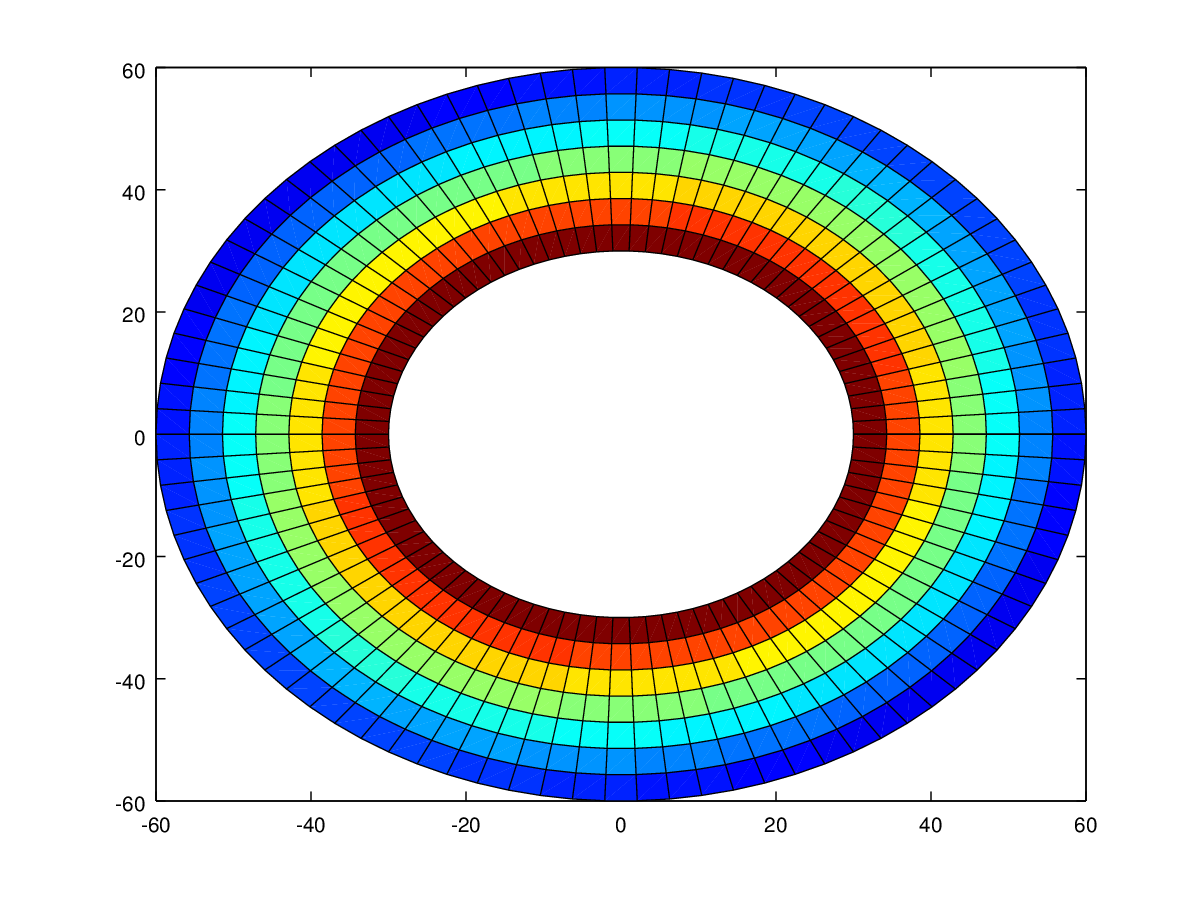
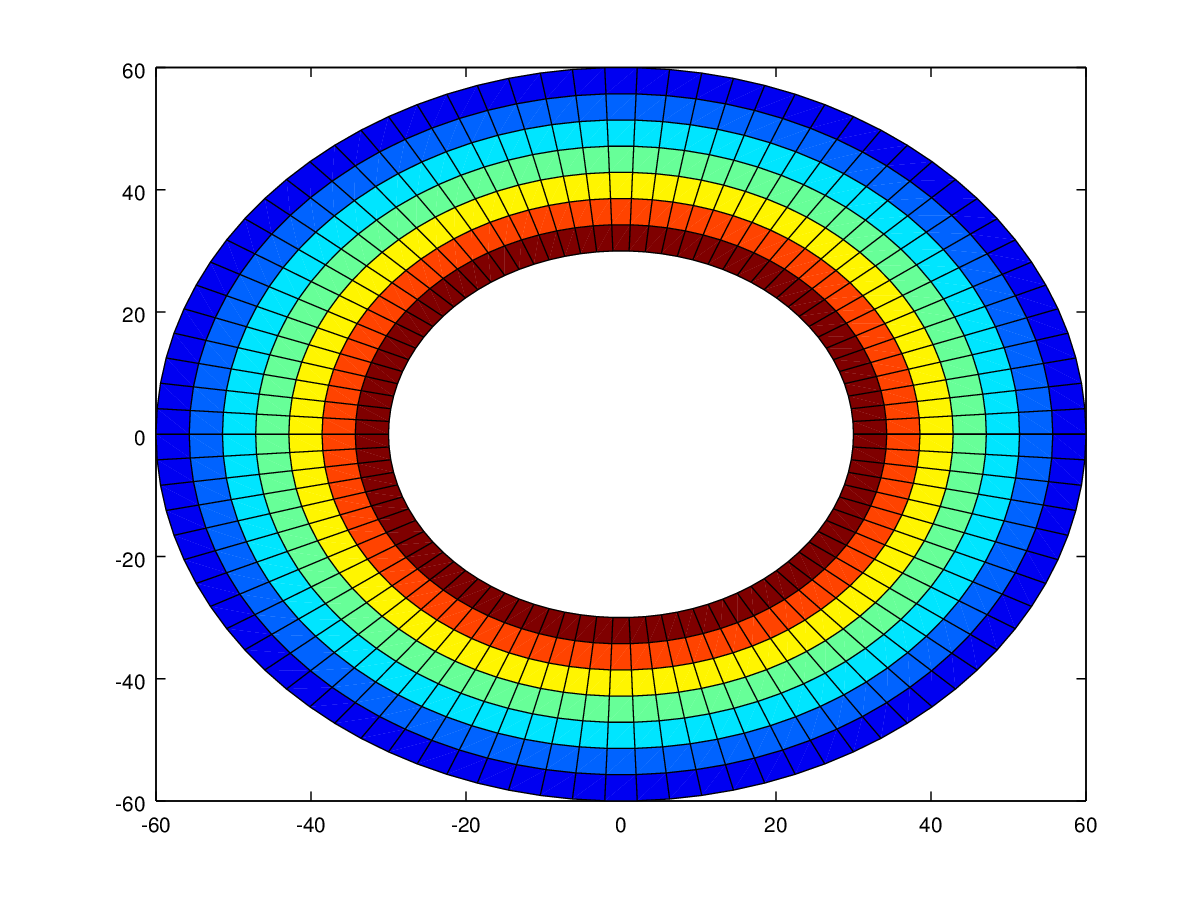
Resultados de exper 1 y 2

Changed region(s): [[0.4317, 0.0622, 0.925, 0.5289], [0.1233, 0.4356, 0.6167, 0.9022]]

diff --git a/informe/3-resultados.tex b/informe/3-resultados.tex
@@ -5,20 +5,84 @@
     Para ambos casos se consideraron instancias de prueba con los siguientes parámetros: $r_i = 30$, $r_e = 60$, $T_i = 1500$, $iso = 500$. Se utilizó una temperatura externa constante en todos los puntos $(r_e, \theta)$ de la discretización, ($T_e(\theta) = 50$).
     En primer lugar, se calculó la solución del sistema y la posición estimada de la isoterma para una discretización considerablemente granular, con $m + 1 = 70$ y $n = 90$, para utilizar como caso de contraste. Reproducimos los gráficos que representan las temperaturas calculadas para todos los puntos de la discretización y la ubicación estimada de la isoterma.
 
+    {\centering \begin{tabular}{cc}
+      \includegraphics[height=5cm]{graficos/1/1-real.png} & \includegraphics[height=5cm]{graficos/1/1-real-iso.png} \\
+      {\small Temperaturas obtenidas} &
+      {\small Posición estimada de la isoterma 500{\degree}C} \\
+    \end{tabular}}
+
     \paragraph{Caso A} Se mantuvo constante la cantidad de radios de la discretización $m + 1 = 70$, y se tomaron instancias con diferentes cantidades de ángulos, para $n = 3, 5, 8, 10, 30, 50, 70$. Los gráficos que incluimos representan los resultados obtenidos para $n = 5, 10, 50$, reflejando las temperaturas calculadas y la ubicación estimada de la isoterma (en azul), comparada con la obtenida para el caso de contraste (en verde).
 
-      \begin{figure}[h]
-        \centering
-        \includegraphics[width=4cm]{altoHorno.jpg}
-        \caption*{Alto horno.}
-      \end{figure}
+    {\centering \begin{tabular}{ccc}
+      \includegraphics[width=4.5cm]{graficos/1/1a-5.png} &
+      \includegraphics[width=4.5cm]{graficos/1/1a-10.png} &
+      \includegraphics[width=4.5cm]{graficos/1/1a-50.png} \\
+      \includegraphics[width=4.5cm]{graficos/1/1a-5-iso.png} &
+      \includegraphics[width=4.5cm]{graficos/1/1a-10-iso.png} &
+      \includegraphics[width=4.5cm]{graficos/1/1a-50-iso.png} \\
+      {\small $n = 5$} &
+      {\small $n = 10$} &
+      {\small $n = 50$} \\
+    \end{tabular}}
 
     \paragraph{Caso B} Se mantuvo constante la cantidad de ángulos de la discretización $n = 90$, y se tomaron instancias con diferentes cantidades de ángulos, para $m + 1 = 3, 5, 8, 10, 30, 50$. Los gráficos que incluimos representan los resultados obtenidos para $m + 1 = 3, 8, 30$, reflejando las temperaturas calculadas y la ubicación estimada de la isoterma (en azul), comparada con la obtenida para el caso de contraste (en verde).
 
+    {\centering \begin{tabular}{ccc}
+      \includegraphics[width=4.5cm]{graficos/1/1b-3.png} &
+      \includegraphics[width=4.5cm]{graficos/1/1b-8.png} &
+      \includegraphics[width=4.5cm]{graficos/1/1b-30.png} \\
+      \includegraphics[width=4.5cm]{graficos/1/1b-3-iso.png} &
+      \includegraphics[width=4.5cm]{graficos/1/1b-8-iso.png} &
+      \includegraphics[width=4.5cm]{graficos/1/1b-30-iso.png} \\
+      {\small $n = 3$} &
+      {\small $n = 8$} &
+      {\small $n = 30$} \\
+    \end{tabular}}
 
   \subsubsection*{Experimento 2: Posición de la isoterma según granularidad}
 
+    Para ambos casos se consideraron instancias de prueba con los siguientes parámetros: $r_i = 30$, $r_e = 60$, $T_i = 1500$, $iso = 500$. Se generó una instancia de prueba con una temperatura externa variable entre 50 y 200{\degree}C
+    % , con $T_e(\theta) = 125 + 75 \sin(2\theta)$ 
+    en todos los puntos $(r_e, \theta)$ de la discretización.
+    En primer lugar, se calculó la solución del sistema y la posición estimada de la isoterma para una discretización considerablemente granular, con $m + 1 = 70$ y $n = 90$, para utilizar como caso de contraste. Reproducimos los gráficos que representan las temperaturas calculadas para todos los puntos de la discretización y la ubicación estimada de la isoterma.
+
+    {\centering \begin{tabular}{cc}
+      \includegraphics[height=5cm]{graficos/2/2-real.png} & \includegraphics[height=5cm]{graficos/2/2-real-iso.png} \\
+      {\small Temperaturas obtenidas} &
+      {\small Posición estimada de la isoterma 500{\degree}C} \\
+    \end{tabular}}
+
+    \paragraph{Caso A} Se mantuvo constante la cantidad de radios de la discretización $m + 1 = 70$, y se tomaron instancias con diferentes cantidades de ángulos, para $n = 3, 5, 8, 10, 30, 50, 70$. Los gráficos que incluimos representan los resultados obtenidos para $n = 5, 10, 50$, reflejando las temperaturas calculadas y la ubicación estimada de la isoterma (en azul), comparada con la obtenida para el caso de contraste (en verde).
+
+    {\centering \begin{tabular}{ccc}
+      \includegraphics[width=4.5cm]{graficos/2/2a-5.png} &
+      \includegraphics[width=4.5cm]{graficos/2/2a-10.png} &
+      \includegraphics[width=4.5cm]{graficos/2/2a-50.png} \\
+      \includegraphics[width=4.5cm]{graficos/2/2a-5-iso.png} &
+      \includegraphics[width=4.5cm]{graficos/2/2a-10-iso.png} &
+      \includegraphics[width=4.5cm]{graficos/2/2a-50-iso.png} \\
+      {\small $n = 5$} &
+      {\small $n = 10$} &
+      {\small $n = 50$} \\
+    \end{tabular}}
+
+    \paragraph{Caso B} Se mantuvo constante la cantidad de ángulos de la discretización $n = 90$, y se tomaron instancias con diferentes cantidades de ángulos, para $m + 1 = 3, 5, 8, 10, 30, 50$. Los gráficos que incluimos representan los resultados obtenidos para $m + 1 = 3, 8, 30$, reflejando las temperaturas calculadas y la ubicación estimada de la isoterma (en azul), comparada con la obtenida para el caso de contraste (en verde).
+
+    {\centering \begin{tabular}{ccc}
+      \includegraphics[width=4.5cm]{graficos/1/1b-3.png} &
+      \includegraphics[width=4.5cm]{graficos/1/1b-8.png} &
+      \includegraphics[width=4.5cm]{graficos/1/1b-30.png} \\
+      \includegraphics[width=4.5cm]{graficos/1/1b-3-iso.png} &
+      \includegraphics[width=4.5cm]{graficos/1/1b-8-iso.png} &
+      \includegraphics[width=4.5cm]{graficos/1/1b-30-iso.png} \\
+      {\small $n = 3$} &
+      {\small $n = 8$} &
+      {\small $n = 30$} \\
+    \end{tabular}}
+
   \subsubsection*{Experimento 3: Posición de la isoterma según condiciones de borde}
+
+    
 
   \subsubsection*{Experimento 4: Índice de peligrosidad según granularidad}
 
